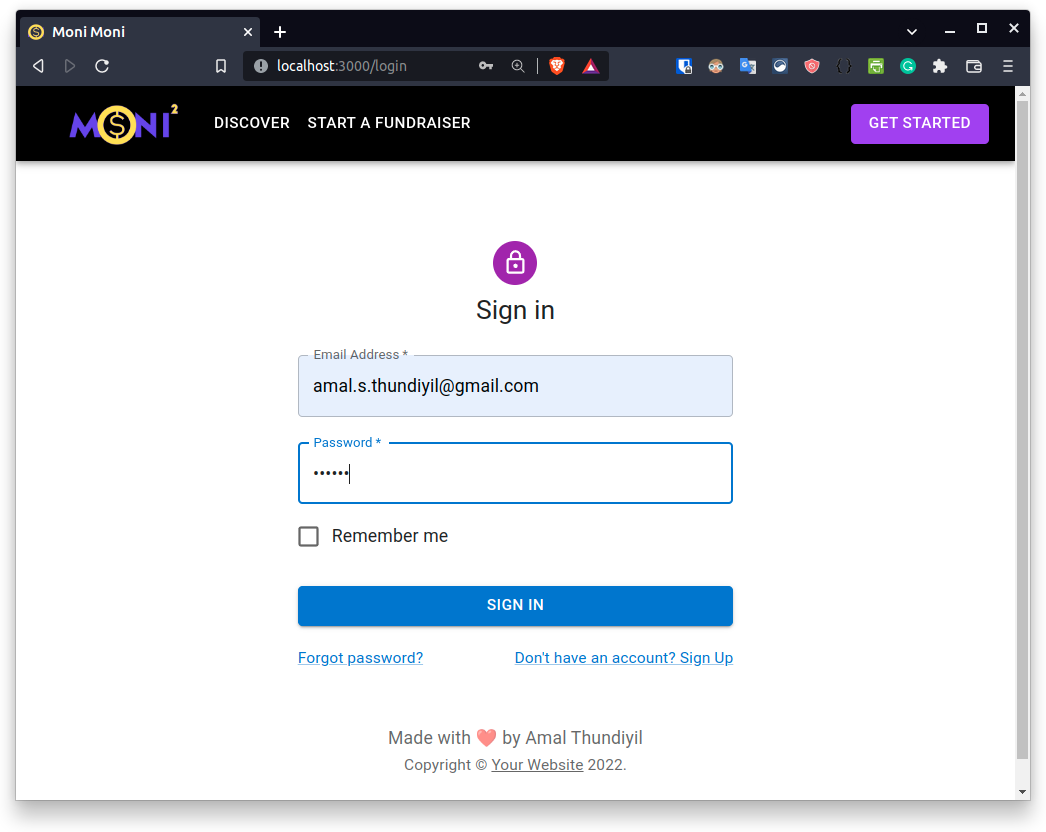
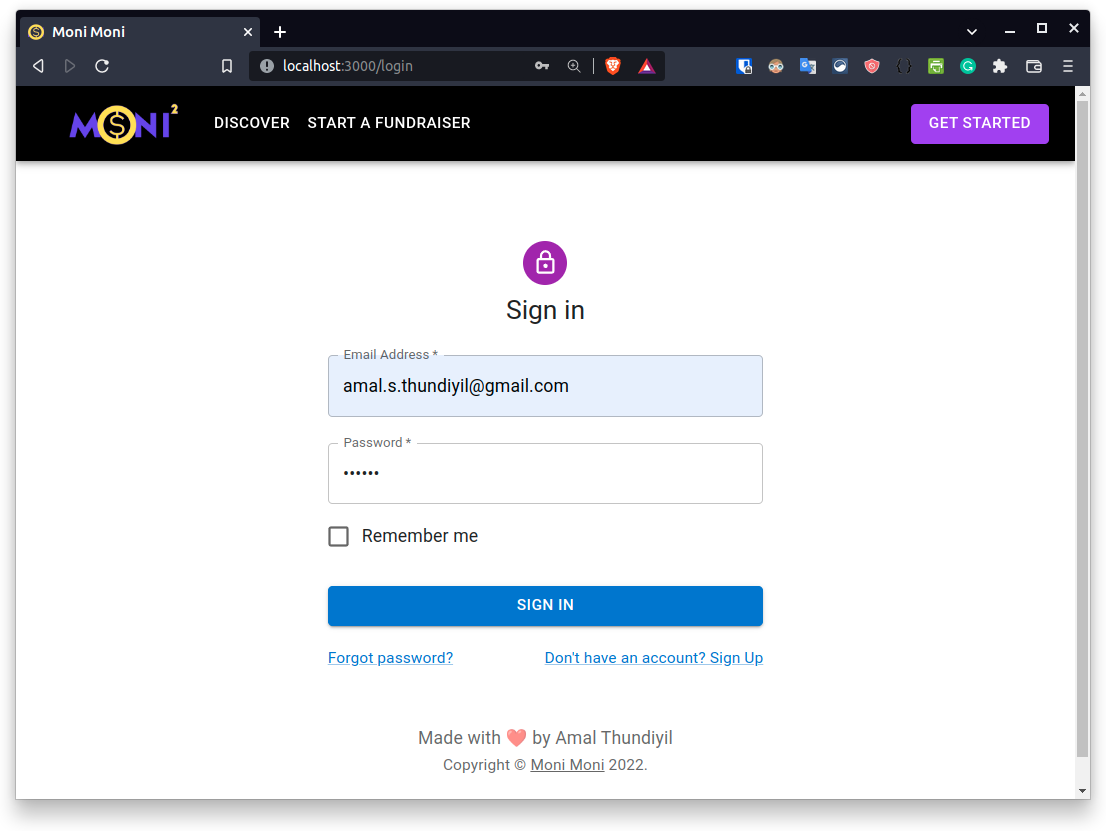
ench: add screenshots

diff --git a/moni-moni/client/src/components/Footer/index.jsx b/moni-moni/client/src/components/Footer/index.jsx
@@ -9,8 +9,8 @@ function Copyright() {
   return (
     <Typography variant="body2" color="text.secondary" align="center">
       {"Copyright © "}
-      <Link color="inherit" href="https://mui.com/">
-        Your Website
+      <Link color="inherit" href="https://moni-moni.herokuapp.com">
+        Moni Moni
       </Link>{" "}
       {new Date().getFullYear()}
       {"."}
